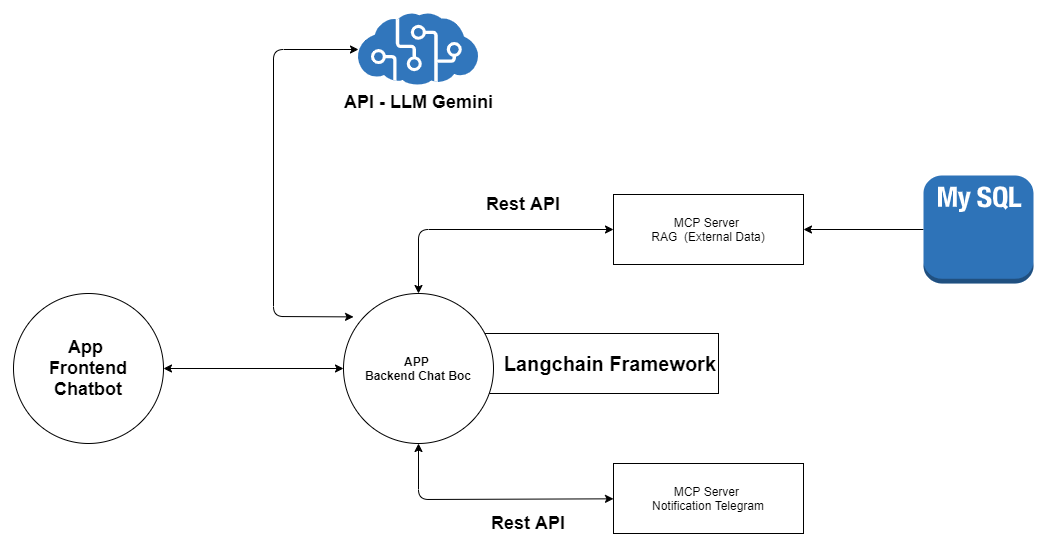
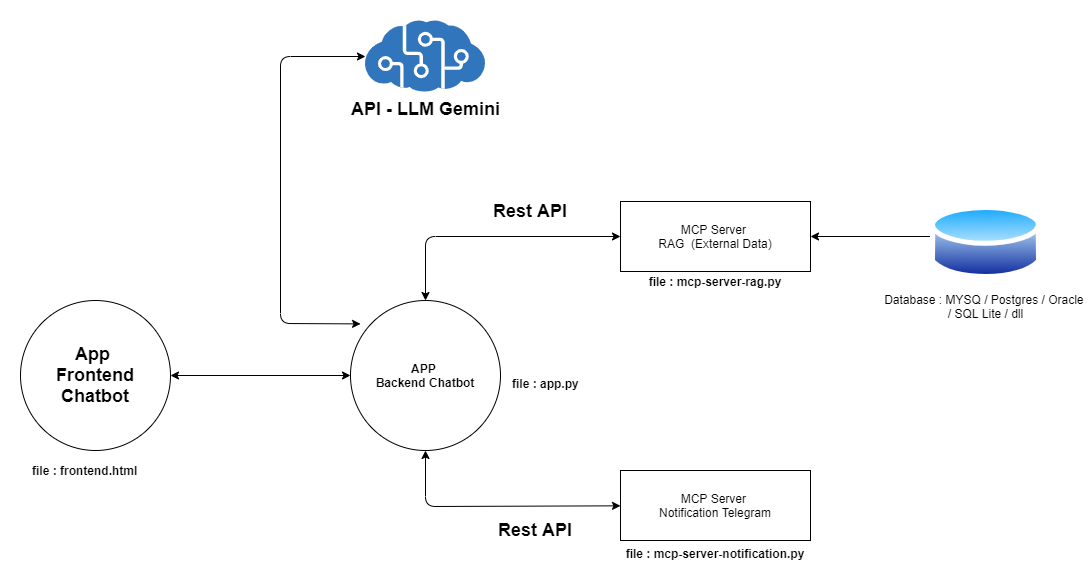
feat: menambah readme file

diff --git a/readme.md b/readme.md
@@ -1,2 +1,136 @@
-pip install langchain
-pip install langchain-google-genai
+# Chatbot Customer Service - Combine AI LLM Gemin & SQL Database & Notification to Telegram with Concept MCP case
+
+
+Of course! Here's your text translated into clear and concise English, formatted in Markdown:
+
+---
+
+## About This Project
+
+This research presents a **smart chatbot solution** designed to automate customer interactions, specifically for **customer service in retail stores**. The chatbot leverages the power of **Google Gemini LLM** for natural language processing (NLP), combined with **SQL database integration** for contextual product information management, and **Telegram notification capabilities** for real-time alerts to staff or relevant users.
+
+Developed with the **Model Context Protocol (MCP)** concept, this chatbot is designed to be highly adaptable and easily integrated into various business and operational needs, ensuring both scalability and ease of maintenance.
+
+### Key Features
+
+* **Gemini LLM Integration:** Utilizes the advanced Gemini large language model to understand complex customer queries (e.g., about stock, prices, or product details) and generate relevant, easy-to-understand responses.
+* **Dynamic SQL Database Queries:** Capable of connecting and interacting with SQL databases (e.g., PostgreSQL, MySQL, SQLite) to retrieve or update product data in real-time. This allows the chatbot to:
+    * **Answer Stock Inquiries:** Provide accurate information on product availability.
+    * **Present Product Prices:** Display the latest prices for inquired items.
+    * **Provide Product Explanations:** Detail specifications, features, or descriptions of products.
+* **Flexible Telegram Notifications:** Sends important notifications or updates directly to specific Telegram groups or users. This is particularly useful for:
+    * **Forwarding Specific Queries:** Rerouting customer questions that the chatbot cannot answer to the customer service team via Telegram.
+    * **Internal Notifications:** Sending automated alerts, such as low stock warnings or urgent inquiries.
+* **Model Context Protocol (MCP) Concept:** A design that enables easy addition of new features, changes in business logic, or component replacement without disrupting the entire system. For instance, you can easily add integrations to other inventory systems or additional notification channels.
+* **Customizable Configuration (MCP):** Flexible settings allow for easy adjustment of the chatbot's behavior, including Gemini prompts, database schemas, notification details, and default responses.
+* **Optimal Performance (MCP):** Optimized for fast and efficient responses, ensuring a smooth user experience with minimal delay, even when interacting with the database.
+
+**When an MCP Server hosts AI Agents, it can be referred to as an Agentic AI system.**
+
+---
+
+## Case Study: Retail Store Customer Service
+
+This chatbot functions as an **AI Customer Service Agent** for a store, enabling visitors to:
+
+* **Inquire about stock, prices, and detailed product explanations.** The AI agent intelligently retrieves and presents information from the database.
+* **Forward complex questions** that the AI agent cannot answer to the customer service team via Telegram, ensuring no query goes unanswered.
+
+Examples of interactions: "Is shoe XYZ size 42 in stock?", "What's the price of this batik shirt?", or "Tell me more about the gaming laptop series A."
+
+
+![Screen Shoot Chatbot](./ss/architecture.png)
+
+
+The example below utilizes the Gemini LLM API.
+
+![Screen Shoot Chatbot](./ss/demo.jpg)
+
+
+Video Demo  ![Video Demo - Chatbot](./ss/demo.mp4)
+
+
+## Table of Contents
+
+  * [1. Create Gemini API Key]
+  * [2. Python & Dependencies Installation]
+  * [3. Creating the Chatbot Backend Program]
+  * [4. Creating the MCP Server RAG]
+  * [5. Creating the MCP Server Notification Telegram]
+  * [6. Creating the Chatbot Frontend Program]
+
+
+-----
+
+## 1\. Create Gemini API Key
+
+The first step is to create an API Key on aistudio.google.com to access the Gemini AI LLM using its API.
+
+![Code Program](./ss/1.png)
+
+## 2\. Python & Dependencies Installation
+
+To set up the Python environment and install the necessary libraries, follow these steps:
+
+```bash
+apt install python3.10-venv
+python3 -m venv venv source venv/bin/activate pip install python-dotenv Flask requests langchain-google-genai langchain pyTelegramBotAPI
+```
+
+## 3\. Creating the Chatbot Backend Program (app.py)
+
+Below is the Python script for the backend, which processes user queries by integrating the Gemini LLM API connection to MCP Server RAG dan MCP Server Telegram
+
+![Code Program Backend](./app.py)
+
+**How to Run:**
+
+```bash
+python3 app.py
+```
+
+![ss](./ss/server-utama.jpg)
+
+
+## 4\. Creating the MCP Server RAG  (mcp-server-rag.py)
+
+Below is the Python script for the backend, which processes user queries by integrating the Gemini LLM API connection to MCP Server RAG dan MCP Server Telegram
+
+![Code Program Backend](./mcp-server-rag.py)
+
+**How to Run:**
+
+```bash
+python3 mcp-server-rag.py
+```
+
+![ss](./ss/mcp-server-rag.jpg)
+
+
+## 5\. Creating the MCP Server Notification Telegram (mcp-server-notification.py)
+
+Below is the Python script for the backend, which processes get or query data to database 
+
+![Code Program Backend](./mcp-server-notification.py)
+
+**How to Run:**
+
+```bash
+python3 mcp-server-notification.py
+```
+
+![ss](./ss/mcp-server-notification.jpg)
+
+
+## 6\. Creating the Chatbot Frontend Program
+
+Below is the script for the web-based frontend program that processes questions and displays AI-generated answers. This frontend can be run on a web server like Apache or Nginx, or simply by opening the HTML file directly in your browser while the backend is running.
+
+![Code Program Frontend](./frontend.html)
+
+![ss](./ss/demo.jpg)
+
+## Contact
+
+If you have questions, you can contact this email
+Email: dendie.sanjaya@gmail.com
